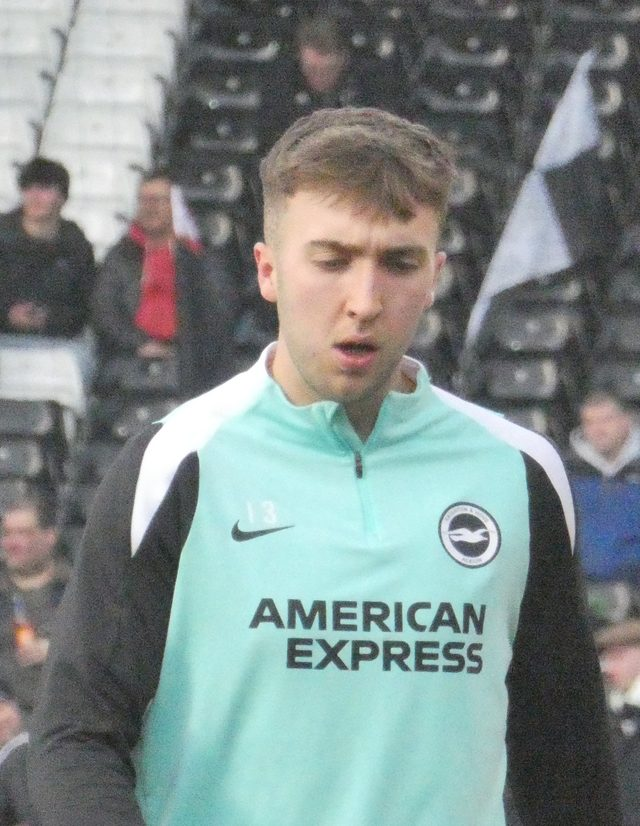
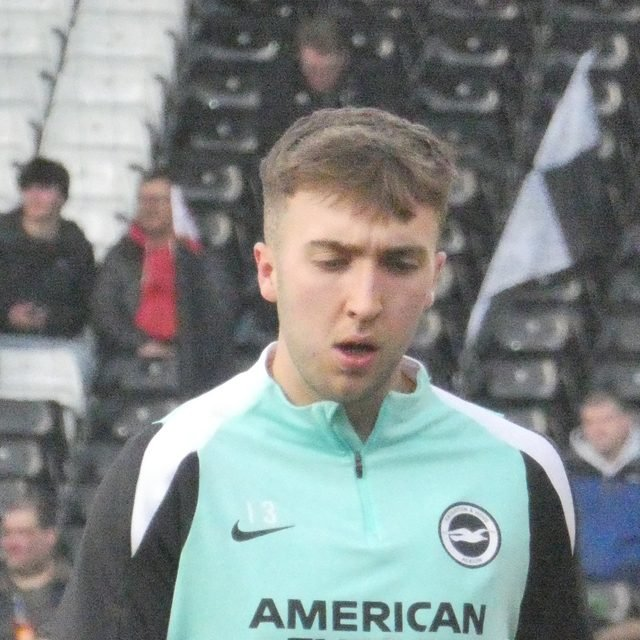
Blog polish: brand-mark placeholder, face-cropped photos, mobile Blog tab
- Player photos are now pre-cropped to a top-anchored square (face is
  always in the upper 2/3 of these Commons portraits, so cropping from the
  top rather than the center reliably keeps the face centered in the
  96px circle) instead of relying on object-fit:cover against the full
  portrait.
- Players with no free-licensed photo (currently just Nobel Mendy) get
  the site's own brand mark in the circle instead of text initials, and
  the "No free photo available yet" caption is gone -- it read like a
  missing asset rather than a deliberate placeholder.
- Added a Blog tab to the mobile bottom nav (6 tabs now) -- shrank icon
  size and padding, especially under 400px, so all six fit on one row
  without wrapping.

diff --git a/frontend/src/App.css b/frontend/src/App.css
@@ -121,8 +121,8 @@ header.top > p {
   z-index: 20;
   display: flex;
   justify-content: center;
-  gap: 4px;
-  padding: 8px 12px calc(8px + env(safe-area-inset-bottom, 0px));
+  gap: 2px;
+  padding: 8px 6px calc(8px + env(safe-area-inset-bottom, 0px));
   background: var(--panel);
   border-top: 1px solid var(--panel-border);
   box-shadow: 0 -8px 24px rgba(0, 0, 0, 0.2);
@@ -137,17 +137,17 @@ header.top > p {
   flex-direction: column;
   align-items: center;
   gap: 3px;
-  padding: 6px 18px;
+  padding: 6px 8px;
   border-radius: 10px;
-  font-size: 0.68rem;
+  font-size: 0.64rem;
   font-weight: 600;
   cursor: pointer;
   flex: 1;
-  max-width: 110px;
+  max-width: 90px;
   transition: color 0.15s ease, background 0.15s ease;
 }
 
-.bottom-nav-item svg { width: 21px; height: 21px; }
+.bottom-nav-item svg { width: 20px; height: 20px; }
 .bottom-nav-item:hover { color: var(--text); }
 .bottom-nav-item.active { color: var(--analytics); background: var(--tint-analytics); }
 
@@ -747,13 +747,9 @@ ul.flags li {
   border-radius: 50%;
   border: 2px solid var(--panel-border);
   background: var(--tint-accent);
-  color: var(--accent);
   display: flex;
   align-items: center;
   justify-content: center;
-  font-family: var(--display);
-  font-weight: 700;
-  font-size: 1.5rem;
 }
 .blog-photo-credit { color: var(--text-dim); font-size: 0.62rem; margin-top: 6px; text-align: center; line-height: 1.4; }
 .blog-photo-credit a { color: var(--text-dim); }
@@ -814,5 +810,13 @@ ul.flags li {
   .card { padding: 16px; }
   table { font-size: 0.76rem; }
   th, td { padding: 6px 8px; }
-  .bottom-nav-item { padding: 6px 10px; font-size: 0.62rem; }
+  .bottom-nav-item { padding: 6px 5px; font-size: 0.6rem; }
+}
+
+/* Six tabs need every spare pixel on narrow phones -- shrink the icons a touch further rather
+   than let labels wrap to two lines or the row overflow. */
+@media (max-width: 400px) {
+  .bottom-nav { gap: 0; padding-left: 2px; padding-right: 2px; }
+  .bottom-nav-item { padding: 6px 3px; font-size: 0.56rem; gap: 2px; }
+  .bottom-nav-item svg { width: 18px; height: 18px; }
 }

diff --git a/frontend/src/components/BottomNav.jsx b/frontend/src/components/BottomNav.jsx
@@ -39,6 +39,14 @@ const ICONS = {
       <circle cx="19" cy="12" r="1.8" />
     </svg>
   ),
+  blog: (
+    <svg viewBox="0 0 24 24" fill="none" stroke="currentColor" strokeWidth="2" strokeLinecap="round" strokeLinejoin="round">
+      <rect x="4" y="4" width="16" height="16" rx="2" />
+      <line x1="8" y1="9" x2="16" y2="9" />
+      <line x1="8" y1="13" x2="16" y2="13" />
+      <line x1="8" y1="17" x2="12" y2="17" />
+    </svg>
+  ),
 };
 
 const TABS = BOTTOM_NAV_KEYS.map((key) => NAV_ITEMS.find((item) => item.key === key));
@@ -55,6 +63,13 @@ export function BottomNav() {
           <span>{t.label}</span>
         </Link>
       ))}
+      {/* Plain <a>, not <Link>: /blog is a real static page (scripts/build-static-pages.mjs),
+          not one of App.jsx's always-mounted SPA panels -- same reasoning as the Blog link in
+          ToolsNav.jsx. */}
+      <a href="/blog" className={`bottom-nav-item ${pathname.startsWith("/blog") ? "active" : ""}`}>
+        {ICONS.blog}
+        <span>Blog</span>
+      </a>
     </nav>
   );
 }
